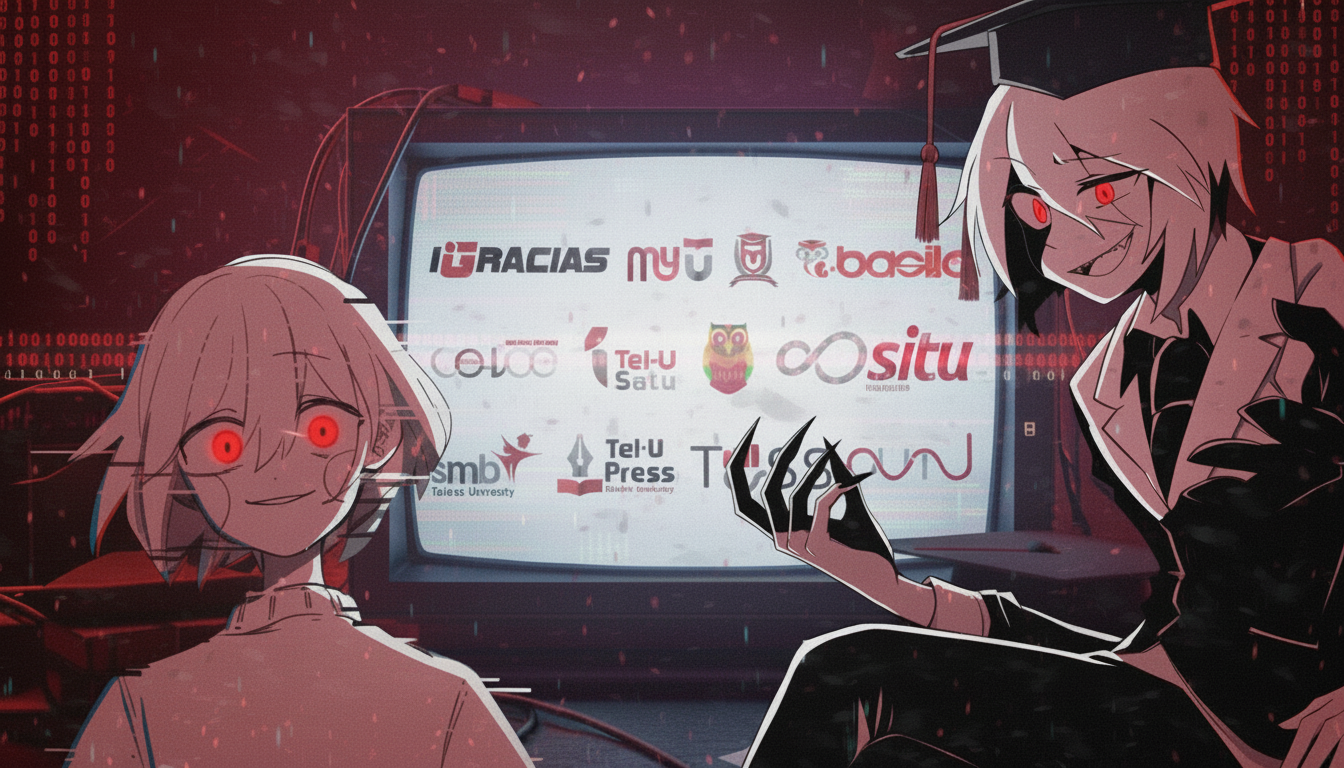
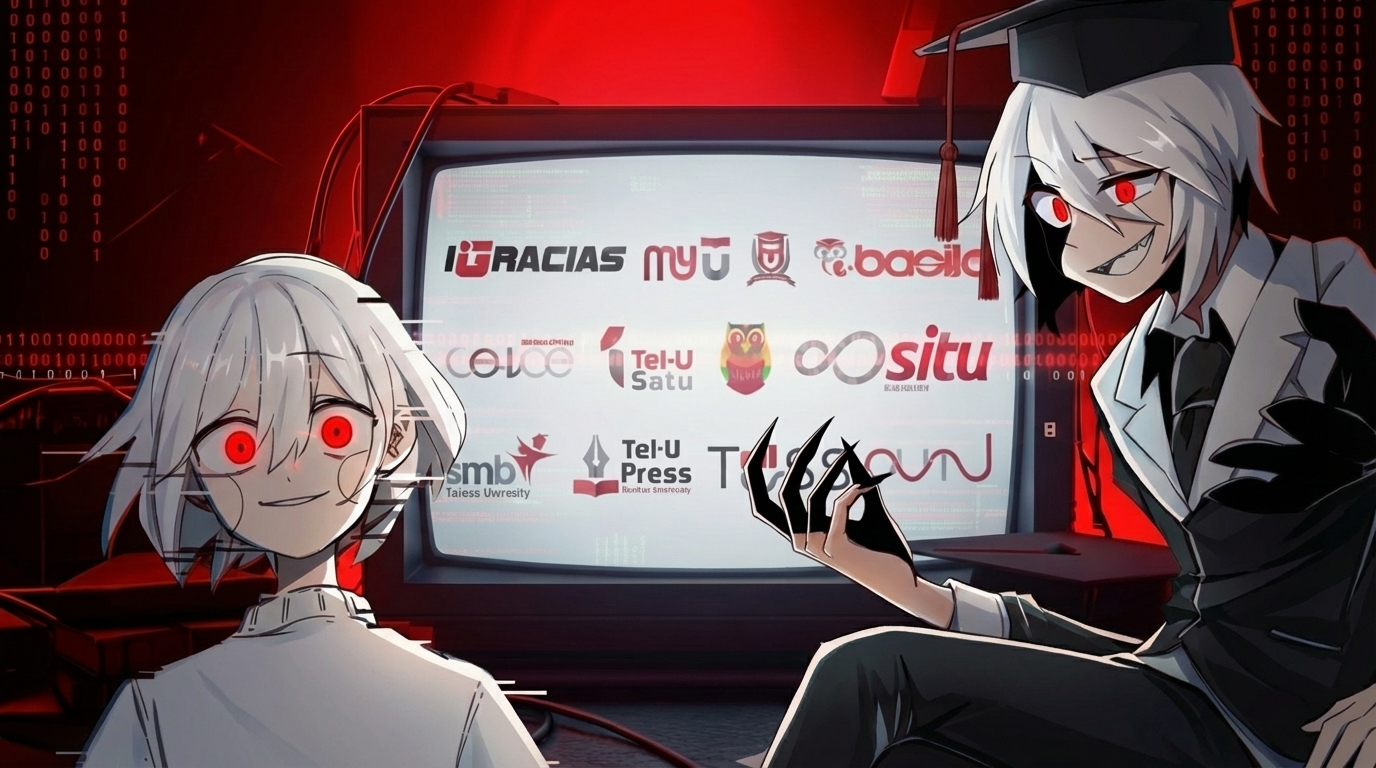
update: thumbnail and cover images in blog-5

diff --git a/index.html b/index.html
@@ -643,7 +643,7 @@
                         <div class="blog-card rounded-4 mb-lg-3 mb-md-5 mb-3">
                             <div class="blog-card__image position-relative">
                                 <div class="zoom-img rounded-3 overflow-hidden">
-                                    <img class="w-100" src="assets/imgs/blog/blog-5/cover1.jpeg" style="height: 300px; object-fit: cover;" alt="">
+                                    <img class="w-100" src="assets/imgs/blog/blog-5/cover2.jpeg" style="height: 300px; object-fit: cover;" alt="">
                                     <a class="position-absolute bottom-0 start-0 m-3 text-white-keep btn btn-gradient fw-medium rounded-3 px-3 py-2" href="blog-5.html">Web Exploitation</a>
                                     <a href="blog-5.html" class="blog-card__link position-absolute top-50 start-50 translate-middle icon-md icon-shape bg-linear-1 rounded-circle">
                                         <i class="ri-arrow-right-up-line text-dark"></i>
